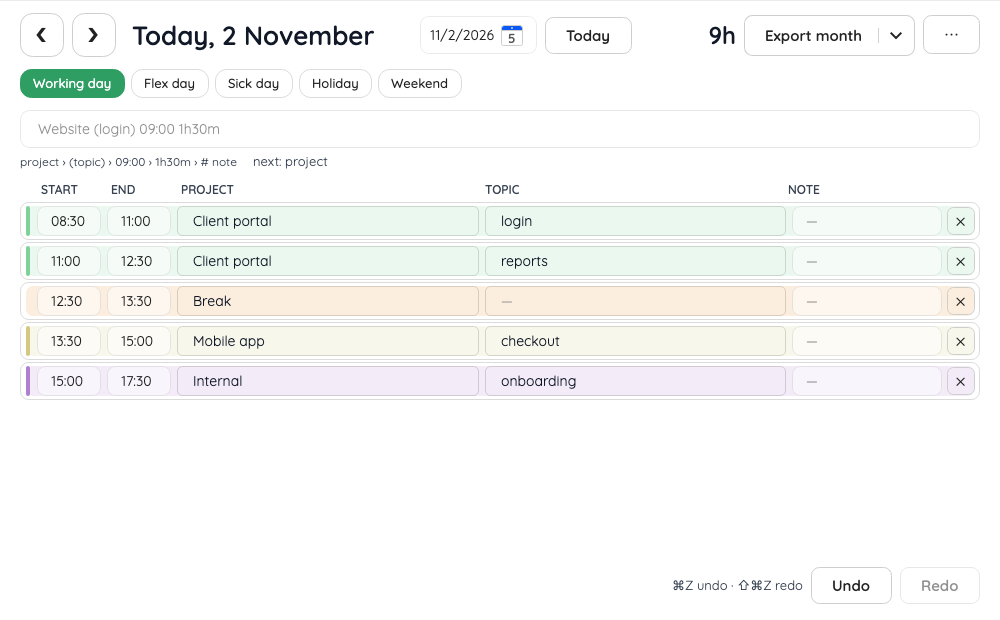
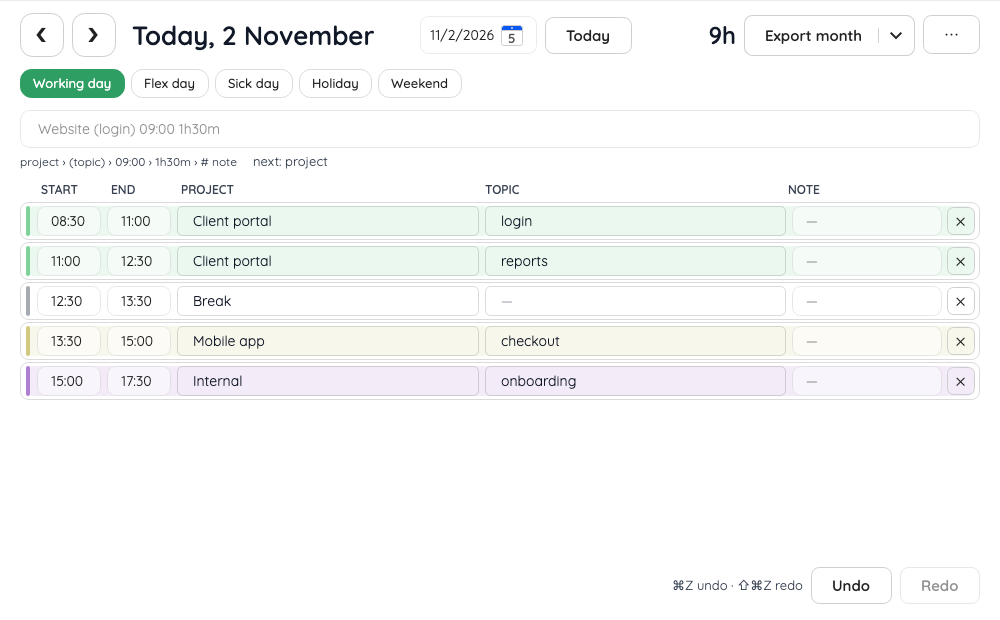
fix: a break carries no colour of its own
The break's row was filled with a peach at full opacity while project rows are
washed at 16 percent, so a pause read as a tinted row and, worse, as a project
with a colour. A break now has no colour at all on either surface: the window
leaves the row on its own surface and keeps the stripe's place as a quiet grey
mark, and the page paints nothing behind the row. Its bar in the report is
still the warm colour, which is a mark rather than a tint.

diff --git a/tests/Worksheet.UiTests/RenderedDayTests.cs b/tests/Worksheet.UiTests/RenderedDayTests.cs
@@ -51,15 +51,35 @@ public sealed class RenderedDayTests : UiTestBase
         var rows = EntryRows(table);
         Assert.Equal(3, rows.Count);
 
-        var (websiteX, websiteY) = OnTheStripe(rows[0]);
-        var (mobileX, mobileY) = OnTheStripe(rows[1]);
+        var (websiteX, websiteY) = OnTheEdge(rows[0]);
+        var (mobileX, mobileY) = OnTheEdge(rows[1]);
 
         Assert.Equal(ColourOf(Tints.Of(Ledger.Ledger.State.Catalogue, "Website")), frame.At(websiteX, websiteY));
         Assert.Equal(ColourOf(Tints.Of(Ledger.Ledger.State.Catalogue, "Mobile")), frame.At(mobileX, mobileY));
     }
 
+    [AvaloniaFact]
+    public void A_break_is_marked_in_grey_at_its_edge_rather_than_in_a_projects_colour()
+    {
+        var table = DayOnScreen("Website 09:00 1h", "Break 10:00 30m");
+        var rows = EntryRows(table);
+
+        using var frame = Shot("break-row");
+
+        var (projectX, projectY) = OnTheEdge(rows[0]);
+        var (breakX, breakY) = OnTheEdge(rows[1]);
+
+        // A project's edge is its pastel; a pause has no colour of its own, so its edge is a grey mark.
+        Assert.True(Chroma(frame.At(projectX, projectY)) > 24, $"a project's edge is its tint: {frame.At(projectX, projectY)}");
+        Assert.True(Chroma(frame.At(breakX, breakY)) < 16, $"a break's edge is grey: {frame.At(breakX, breakY)}");
+    }
+
+    /// <summary>How far a colour is from grey: the spread between its widest and narrowest channel.</summary>
+    private static int Chroma(Color colour) =>
+        Math.Max(colour.R, Math.Max(colour.G, colour.B)) - Math.Min(colour.R, Math.Min(colour.G, colour.B));
+
     /// <summary>A point inside the stripe: its middle, which the rounded ends cannot reach.</summary>
-    private (int X, int Y) OnTheStripe(Border row)
+    private (int X, int Y) OnTheEdge(Border row)
     {
         var stripe = Stripe(row);
         var centre = stripe.TranslatePoint(new Point(stripe.Bounds.Width / 2, stripe.Bounds.Height / 2), Window)

diff --git a/src/Worksheet.Core/Tints.cs b/src/Worksheet.Core/Tints.cs
@@ -39,9 +39,6 @@ public static class Tints
     /// </summary>
     private const double GoldenStep = 0.3819660112501051;
 
-    /// <summary>The warm a break's row is washed in, which is the theme's own value in its light half.</summary>
-    public const string BreakWash = "#fceedf";
-
     /// <summary>
     /// The tint of a name as <c>#rrggbb</c>, or nothing for a break: a pause is the absence of work,
     /// and a colour of its own would make it look like a project. The catalogue is every project the
@@ -51,13 +48,17 @@ public static class Tints
     public static string? Of(IReadOnlyCollection<string> catalogue, string? name) =>
         name is null || Break.IsBreak(name) ? null : Hex(Hue(catalogue, name.Trim()), Saturation, Lightness);
 
+    /// <summary>What a page paints under a row that is not a project's: nothing at all.</summary>
+    public const string NoWash = "transparent";
+
     /// <summary>
-    /// The wash a row of a page is painted with: the project's tint laid over white, or the warm a
-    /// break has instead. The window reaches the same colour by drawing the tint over whatever
-    /// surface its theme chose, which is why the share is a number and not a second palette.
+    /// The wash a row of a page is painted with: the project's tint laid over white, or nothing for a
+    /// break, which carries no tint of its own. The window reaches the same colour by drawing the
+    /// tint over whatever surface its theme chose, which is why the share is a number and not a
+    /// second palette.
     /// </summary>
     public static string Wash(IReadOnlyCollection<string> catalogue, string name) =>
-        Of(catalogue, name) is { } tint ? Blend(tint, WashShare) : BreakWash;
+        Of(catalogue, name) is { } tint ? Blend(tint, WashShare) : NoWash;
 
     /// <summary>
     /// The hue a name falls on, as a share of the circle: one golden step for every project that

diff --git a/tests/Worksheet.UiTests/DayTableTests.cs b/tests/Worksheet.UiTests/DayTableTests.cs
@@ -77,7 +77,7 @@ public sealed class DayTableTests : UiTestBase
     }
 
     [AvaloniaFact]
-    public void A_project_row_is_washed_and_striped_in_its_pastel_and_a_break_is_washed_warm()
+    public void A_project_row_is_washed_and_striped_in_its_pastel_and_a_break_is_painted_in_no_colour()
     {
         var rows = EntryRows(Table("Website 09:00 1h", "Break 10:00 30m"));
 
@@ -86,11 +86,12 @@ public sealed class DayTableTests : UiTestBase
 
         Assert.Equal(Color.Parse(Tints.Of(Ledger.Ledger.State.Catalogue, "Website")!), stripe.Color);
         Assert.NotNull(ProjectWash(rows[0]).Background);
-        Assert.False(BreakWash(rows[0]).IsVisible);
+        Assert.False(BreakMark(rows[0]).IsVisible);
 
+        // A pause is not a project: no tint, no wash — only the quiet mark that keeps the stripe's place.
         Assert.Null(Stripe(rows[1]));
         Assert.Null(ProjectWash(rows[1]).Background);
-        Assert.True(BreakWash(rows[1]).IsVisible);
+        Assert.True(BreakMark(rows[1]).IsVisible);
     }
 
     private static IBrush? Stripe(Border row) =>
@@ -99,8 +100,8 @@ public sealed class DayTableTests : UiTestBase
     private static Border ProjectWash(Border row) =>
         Descendants<Border>(row).Single(border => border.Classes.Contains("project-wash"));
 
-    private static Border BreakWash(Border row) =>
-        Descendants<Border>(row).Single(border => border.Classes.Contains("break-wash"));
+    private static Border BreakMark(Border row) =>
+        Descendants<Border>(row).Single(border => border.Classes.Contains("break-mark"));
 
     [AvaloniaFact]
     public void A_hole_between_entries_is_visible_with_its_length()

diff --git a/tests/Worksheet.Tests/ExportTests.cs b/tests/Worksheet.Tests/ExportTests.cs
@@ -214,7 +214,7 @@ public sealed class ExportTests
     }
 
     [Fact]
-    public void A_day_row_is_washed_in_its_projects_tint_and_a_break_row_in_the_warm_one()
+    public void A_day_row_is_washed_in_its_projects_tint_and_a_break_row_in_nothing()
     {
         Logged("Website 09:00 1h");
         Logged("Break 10:00 30m");
@@ -223,7 +223,7 @@ public sealed class ExportTests
         var page = Html(report);
 
         Assert.Contains($"<tr style=\"--bs-table-bg:{Tints.Wash(report.Catalogue, "Website")}\">", page);
-        Assert.Contains($"<tr style=\"--bs-table-bg:{Tints.BreakWash}\">", page);
+        Assert.Contains($"<tr style=\"--bs-table-bg:{Tints.NoWash}\">", page);
     }
 
     [Fact]

diff --git a/tests/Worksheet.Tests/TintsTests.cs b/tests/Worksheet.Tests/TintsTests.cs
@@ -115,7 +115,7 @@ public sealed class TintsTests
     public void A_wash_is_what_it_was() => Assert.Equal("#ebc5c5", Tints.Wash(["Website"], "Website"));
 
     [Fact]
-    public void A_break_is_washed_warm_instead() => Assert.Equal("#fceedf", Tints.Wash([], Break.Project));
+    public void A_break_is_washed_in_nothing_at_all() => Assert.Equal("transparent", Tints.Wash([], Break.Project));
 
     [Fact]
     public void A_break_has_no_tint_of_its_own()

diff --git a/docs/design-review.md b/docs/design-review.md
@@ -51,9 +51,8 @@ chosen project. A project cannot be opened twice under two spellings, and when t
 matches existing names they are offered as chips.
 
 **SukiUI 7.0.1** for the base look: its theme, its accent colour handling, its control templates.
-Only three brushes are ours (`SurfaceBrush`, `HairlineBrush`, `BreakWashBrush`) and the first two are
-translucent, so they blend with whichever background Suki paints in light or dark. The break wash is
-the one opaque colour of the three, because it is a colour someone has to be able to see.
+Only two brushes are ours (`SurfaceBrush`, `HairlineBrush`) and both are translucent, so they blend
+with whichever background Suki paints in light or dark.
 
 **A project is a colour.** `Tints` walks the wheel by the golden angle, one step per project in
 catalogue order, keeps the saturation low and the lightness high, and hands out the same pastel in
@@ -65,8 +64,9 @@ golden angle keeps every pair as far apart as the number of projects allows — 
 of the wheel apart, twelve are never closer than twenty degrees — and it needs the catalogue rather
 than the name alone, so a name not written down yet takes the colour of the place it will occupy.
 The row wash is drawn over whatever surface the theme chose rather than mixed into a second palette,
-which is why it needs no dark variant of its own. A break is the one row with no tint: it is washed
-warm instead, since a pause is not a project.
+which is why it needs no dark variant of its own. A break is the one row with no colour at all: a
+pause is not a project, so its row is left as the surface it sits on, its edge is a quiet grey mark
+in the stripe's place, and the page paints no row behind it.
 
 **Typography is a closed set.** `title`, `total`, `body`, `numeric`, `caption`, `meta`, `quiet`.
 No view sets a font size inline; if a size is missing, it is added to the tokens, not to the view.

diff --git a/README.md b/README.md
@@ -79,8 +79,9 @@ strength: a pastel worked out from the project's place in the catalogue, so the 
 same colour in every window, on every run, and on the exported page, where its bars and its day rows
 are drawn in it too. The colours are spread as far apart as the number of projects allows — two
 projects land most of the wheel apart, a dozen are never closer than twenty degrees — so two names
-never turn out to be the same colour by accident. A break carries no such tint — a pause is not a
-project — and its row is washed warm instead, so it reads as a pause before the name does.
+never turn out to be the same colour by accident. A break is the one row with no colour at all — a
+pause is not a project — so it sits on the window's own surface, its edge a quiet grey mark where a
+project has its stripe, and the exported page leaves its row unpainted too.
 
 The project and topic cells take a name you type, not only one from the list. A name nobody has used
 yet is created when you leave the cell, so a block can be moved onto a new project without returning
